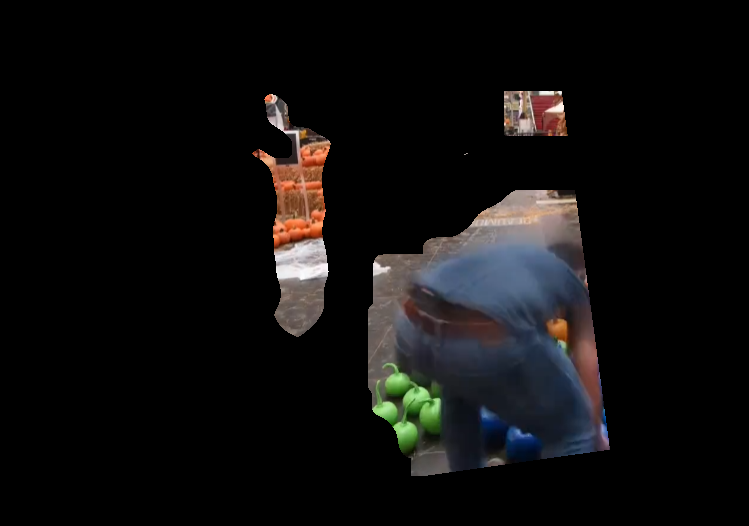
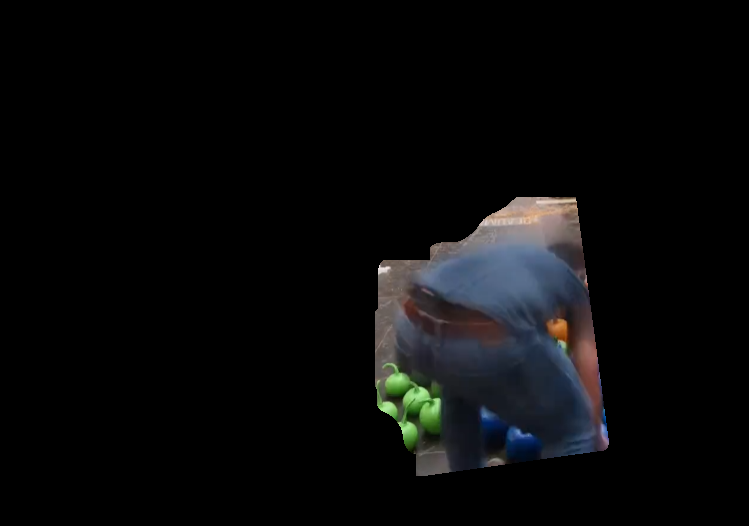
working mask of each person in foreground

Changed region(s): [[0.3378, 0.1825, 0.4606, 0.6388], [0.4913, 0.3346, 0.7677, 0.8821], [0.6756, 0.1521, 0.7677, 0.2738]]

diff --git a/stitching.py b/stitching.py
@@ -127,6 +127,7 @@ def stitch_background(imgs: Dict[str, torch.Tensor]):
         dst_img = torch.nn.functional.pad(right, (minx,right.shape[3]-width+minx, miny, height-miny-right.shape[2]))     
     else:
         dst_img = torch.nn.functional.pad(left, (minx, width-minx-left.shape[3], miny, height-miny-left.shape[2]))     
+    
     dst_img = dst_img.squeeze(0)
     src_img = src_img.squeeze(0)
     
@@ -144,7 +145,7 @@ def stitch_background(imgs: Dict[str, torch.Tensor]):
         return (tens * 255).to(torch.uint8)
     def i8(tens):
         return tens.to(torch.uint8)
-    # show_image(dst_img)
+    
     if variant == 0:
         combined_mask = torch.where(dst_img.bool(), dst_img, src_img)
         # combined_mask = torch.where(src_img.bool(), src_img, dst_img)
@@ -161,43 +162,38 @@ def stitch_background(imgs: Dict[str, torch.Tensor]):
     
     sigma = 8
     filter_size = 6 * sigma + 1
-    erosion_kernel = 8
+    erosion_kernel = 10
     dilation_kernel = 75
-    # dif = K.filters.gaussian_blur2d(dif.unsqueeze(0), (filter_size, filter_size), (sigma, sigma)).squeeze(0)
-    # dif = torch.threshold(dif, 0.3, 0)
-    # dif = dif.sum(axis=0, keepdim=True)
-    # er_kern = 10
-    # dif = K.morphology.erosion(dif.unsqueeze(0), ekern).squeeze(0)
-    # dif = K.morphology.dilation(dif.unsqueeze(0), dkern).squeeze(0)
-    # dif = torch.any(dif > 0, dim=0, keepdim=True).to(torch.float32)
-    
+
     dst_dif = both_dst_img - both_src_img 
     src_dif = both_src_img - both_dst_img
-    # print(dst_dif.shape, src_dif.shape)
     
     dst_dif = K.filters.gaussian_blur2d(dst_dif.unsqueeze(0), (filter_size, filter_size), (sigma, sigma)).squeeze(0)
     src_dif = K.filters.gaussian_blur2d(src_dif.unsqueeze(0), (filter_size, filter_size), (sigma, sigma)).squeeze(0)
-
+    
     dst_dif = dst_dif.sum(axis=0, keepdim=True)
     src_dif = src_dif.sum(axis=0, keepdim=True)
     
     dst_dif = torch.threshold(dst_dif, 0.35, 0)
     src_dif = torch.threshold(src_dif, 0.35, 0)
     
-    ekern = torch.ones(erosion_kernel, erosion_kernel)
-    dkern = torch.ones(dilation_kernel, dilation_kernel)
+    dst_dif = torch.any(dst_dif > 0, dim=0, keepdim=True).to(torch.uint16)
+    src_dif = torch.any(src_dif > 0, dim=0, keepdim=True).to(torch.uint16)
     
-    dst_dif = K.morphology.erosion(dst_dif.unsqueeze(0), ekern).squeeze(0)
-    src_dif = K.morphology.dilation(src_dif.unsqueeze(0), dkern).squeeze(0)
-
-    dst_dif = torch.any(dst_dif > 0, dim=0, keepdim=True).to(torch.uint8)
-    src_dif = torch.any(src_dif > 0, dim=0, keepdim=True).to(torch.uint8)
-
-    dst_dif = both_dst_img * (dst_dif + src_dif)
-    src_dif = both_src_img * (dst_dif + src_dif)
+    dst_dif = K.morphology.erosion(dst_dif.unsqueeze(0), torch.ones(erosion_kernel, erosion_kernel)).squeeze(0)
+    src_dif = K.morphology.erosion(src_dif.unsqueeze(0), torch.ones(erosion_kernel, erosion_kernel)).squeeze(0)
     
-    write_image(ready(dst_dif),"1.png")
-    write_image(ready(src_dif),"2.png")
+    dst_dif = K.morphology.dilation(dst_dif.unsqueeze(0), torch.ones(dilation_kernel, dilation_kernel)).squeeze(0)
+    src_dif = K.morphology.dilation(src_dif.unsqueeze(0), torch.ones(dilation_kernel, dilation_kernel)).squeeze(0)
+    
+    # dst= both_dst_img * (dst_dif + src_dif)
+    # src = both_src_img * (dst_dif + src_dif)
+        
+    dst= both_dst_img * src_dif 
+    src = both_src_img * dst_dif
+    
+    write_image(ready(dst),"1.png")
+    write_image(ready(src),"2.png")
     # show_image(ready(both_dst_img * dif))
     # dif = K.contrib.connected_components(dif, 300)
     # print("CCs:", dif.shape)
@@ -206,19 +202,19 @@ def stitch_background(imgs: Dict[str, torch.Tensor]):
     # dif = K.morphology.closing(dif.unsqueeze(0), ckern).squeeze(0)
     # dif = dst_img * dif
 
-    print(f"""
-Both: {both.shape},
-dst_img: {dst_img.shape},
-dst_mask: {dst_mask.shape},
-src_img: {src_img.shape},
-src_mask: {src_mask.shape},
-dif: {dif.shape},
-    """)
-    write_image(ready(both), "both.png")
-    write_image(ready(dif), "dif.png")
-    write_image(ready(dst_img), "dst.png")
-    write_image(ready(src_img), "src.png")
-    write_image(ready(combined_mask), "mask.png")
+#     print(f"""
+# Both: {both.shape},
+# dst_img: {dst_img.shape},
+# dst_mask: {dst_mask.shape},
+# src_img: {src_img.shape},
+# src_mask: {src_mask.shape},
+# dif: {dif.shape},
+#     """)
+    # write_image(ready(both), "both.png")
+    # write_image(ready(dif), "dif.png")
+    # write_image(ready(dst_img), "dst.png")
+    # write_image(ready(src_img), "src.png")
+    # write_image(ready(combined_mask), "mask.png")
     
     return img
 
